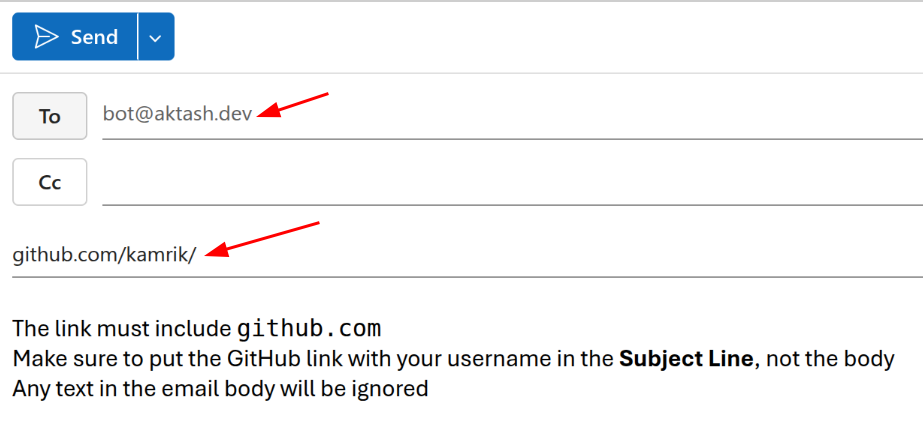
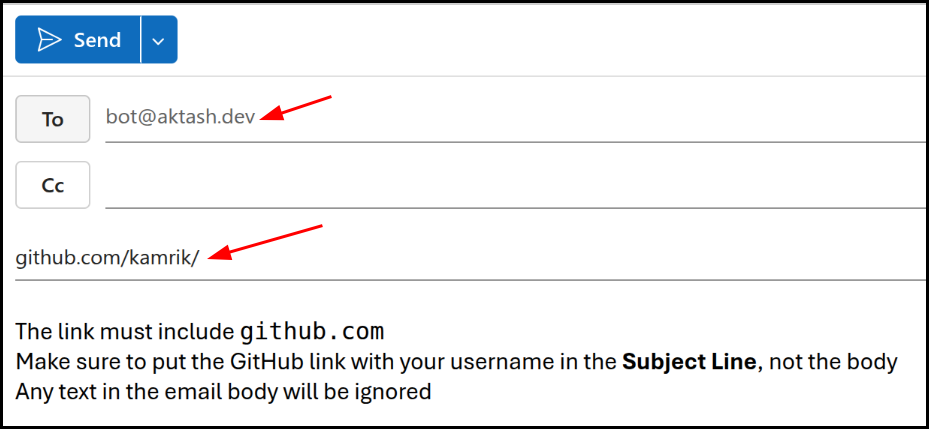
Bake border into screenshot

Changed region(s): [[0.0, 0.0, 1.0, 1.0], [0.091, 0.3995, 0.1213, 0.4917], [0.3034, 0.5225, 0.3337, 0.5532]]

diff --git a/labs/lab_02.md b/labs/lab_02.md
@@ -30,7 +30,7 @@ If you already have a GitHub account, skip to the next step.
  `github.com/comp1238f26/lab2-YourUsername`
 - The bot will respond within 3 minutes with a link to your new repository.
 
-<img src="img/bot_email_screenshot.png" alt="Edit file" style="border: 2px solid black; border-radius: 5px;">
+![Bot email](img/bot_email_screenshot.png)
 
 ## 3. Complete the assignment in your new repository
 - Use the [autograder instructions](autograder_instructions.md) to find your way around your new repo.
